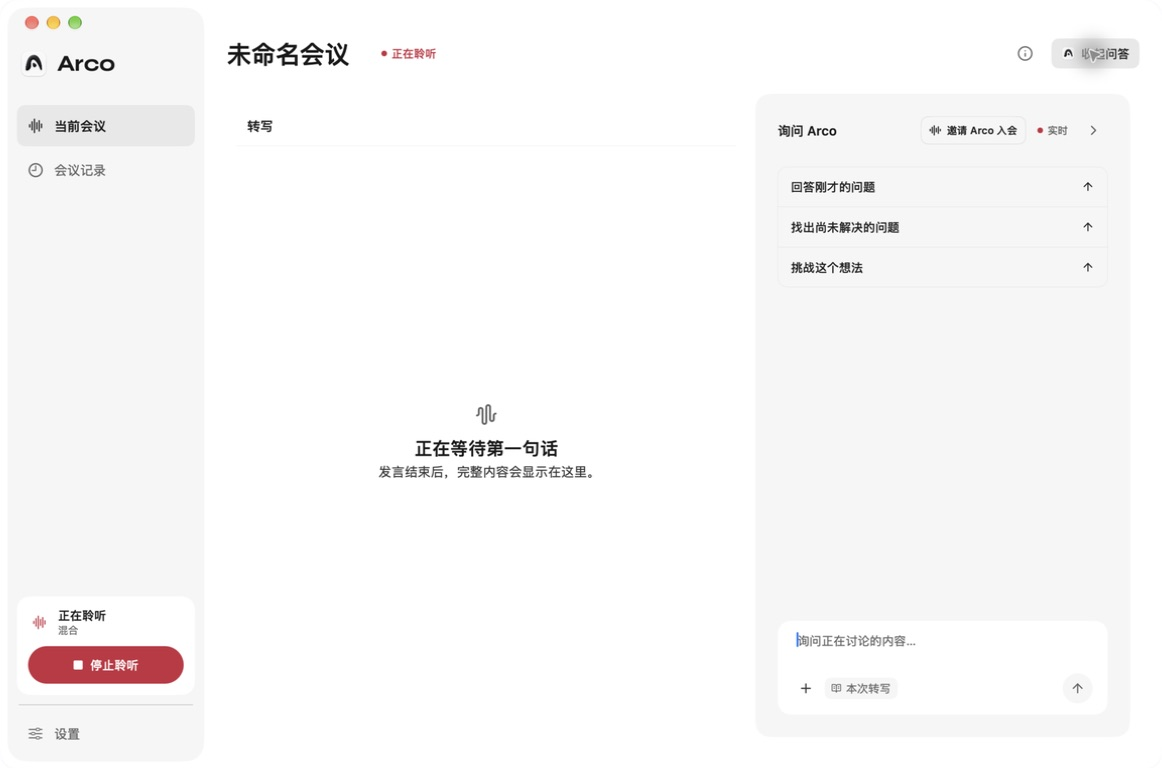
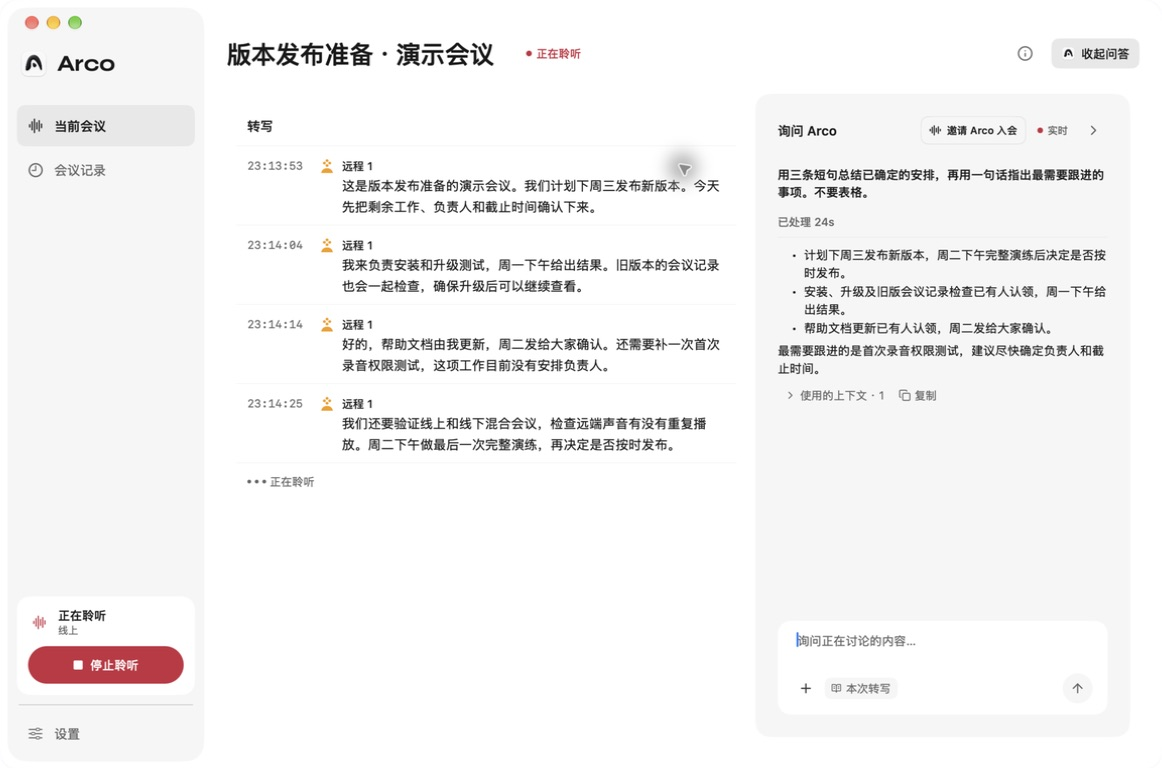
docs: show populated meeting and connected Arco in screenshots

diff --git a/README.md b/README.md
@@ -37,20 +37,22 @@ The current preview build uses Arco's stable local development signature but is 
 
 ## Invite Arco to your meeting
 
-> **Available in v0.3.25.** Real screenshots of Arco’s independent meeting participant window and meeting-microphone routing.
+> **Available in v0.3.25.** Actual app screenshots using a synthetic-voice demonstration meeting, with live transcription, generated answers, and Arco’s connected participant window.
 
 Invite Arco to listen alongside you in an online, in-person, or hybrid meeting. System audio carries remote participants; your physical microphone captures the room. Arco stays quiet until directly addressed by name in each turn, then responds by voice. Questions about the meeting use the transcript-aware Codex or Claude Agent for context.
 
 <p align="center">
-  <img src="docs/images/arco-invite-meeting.jpg" alt="Arco’s native meeting workspace with the Invite Arco button beside Ask Arco and the live recording indicator" width="1000">
+  <img src="docs/images/arco-invite-meeting.jpg" alt="A demonstration meeting with a populated live transcript, an actual Arco summary, and the Invite Arco button" width="1000">
   <br>
-  <sub>Start transcription on its own, then invite Arco when you want voice participation.</sub>
+  <sub>A demonstration discussion is transcribed live; Arco summarizes the release plan and identifies the unassigned permission test.</sub>
 </p>
 
 The invitation opens a separate, always-on-top participant card. Its Aura visualization uses the official [LiveKit Agents UI shader](https://github.com/livekit/components-js/blob/main/packages/shadcn/components/agents-ui/agent-audio-visualizer-aura.tsx), adapted to native Metal, and reflects listening, thinking, and speech playback.
 
 <p align="center">
-  <img src="docs/images/arco-voice-participant.png" alt="Arco’s standalone Aura participant card while listening, with a hide control, meeting microphone status, and Leave meeting button" width="300">
+  <img src="docs/images/arco-voice-participant.png" alt="Arco actively listening in its floating Aura window alongside the meeting transcript and question-and-answer panel" width="1000">
+  <br>
+  <sub>Actual app windows during a demonstration session. Transcription and text Q&amp;A remain available while Arco participates by voice.</sub>
 </p>
 
 | Action | What happens |

diff --git a/README.zh-CN.md b/README.zh-CN.md
@@ -36,20 +36,22 @@
 
 ## 邀请 Arco 入会
 
-> **v0.3.25 已提供。** 以下为 Arco 独立参会悬浮窗和会议麦克风切换的真实截图。
+> **v0.3.25 已提供。** 以下为应用真实截图：使用合成语音进行演示会议，展示实时转写、实际生成的回答和已连接的参会悬浮窗。
 
 邀请 Arco 和你一起听会，支持线上、线下和混合会议。系统音频接收远端发言，物理麦克风拾取现场声音。Arco 默认安静，每轮被点名后再用语音回应；涉及会议内容的问题，会交给能读取当前转写的 Codex 或 Claude Agent。
 
 <p align="center">
-  <img src="docs/images/arco-invite-meeting.jpg" alt="Arco 原生会议界面：询问 Arco 旁的邀请入会按钮和实时录音状态" width="1000">
+  <img src="docs/images/arco-invite-meeting.jpg" alt="演示会议的实时转写、Arco 生成的发布安排总结，以及邀请入会入口" width="1000">
   <br>
-  <sub>先独立记录会议，需要语音参与时再邀请 Arco。</sub>
+  <sub>演示讨论被实时转写，Arco 根据发言整理发布安排，并指出尚未安排负责人的权限测试。</sub>
 </p>
 
 点击邀请后，Arco 出现在独立置顶的参会卡片中。Aura 动效采用 [LiveKit Agents UI 官方着色器](https://github.com/livekit/components-js/blob/main/packages/shadcn/components/agents-ui/agent-audio-visualizer-aura.tsx)，移植到原生 Metal，呈现聆听、思考和语音播放状态。
 
 <p align="center">
-  <img src="docs/images/arco-voice-participant.png" alt="Arco 独立 Aura 参会卡片：正在聆听、收起按钮、会议麦克风已接通和请 Arco 离会按钮" width="300">
+  <img src="docs/images/arco-voice-participant.png" alt="Arco 已连接并正在聆听，独立 Aura 悬浮窗与会议转写、问答面板同屏显示" width="1000">
+  <br>
+  <sub>演示会议中的实际应用窗口：Arco 语音参会时，仍可同时查看转写和问答。</sub>
 </p>
 
 | 操作 | 结果 |
